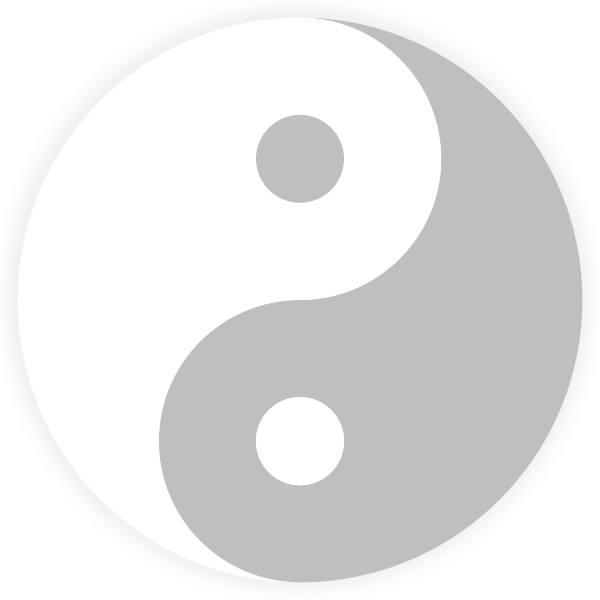
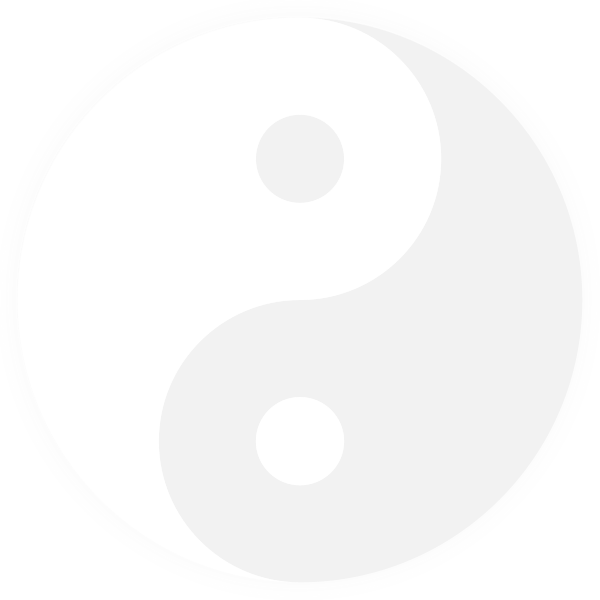
Improved CSS and made background image less intrusive.

diff --git a/pages/_css/basic.css b/pages/_css/basic.css
@@ -29,7 +29,6 @@ img {
 
 a {
 	color: #33a;
-	text-decoration: underline;
 }
 
 a:hover {
@@ -51,10 +50,6 @@ ul {
 	margin-bottom: 1em;
 }
 
-a {
-	border-bottom: 2px;
-}
-
 h3, h4, h5, h6 {
 	font-weight: normal;
 }
@@ -64,6 +59,20 @@ h3, h4, h5, h6 {
 body {
 	margin: 0px;
 	padding: 0px;
+}
+
+.navigation {
+	position: absolute;
+	left: 0px;
+	right: 0px;
+}
+
+.navigation .prev_link {
+	float: left;
+}
+
+.navigation .next_link {
+	float: right;
 }
 
 #header {
@@ -139,7 +148,8 @@ ul.trail {
 
 ul.trail > li {
 	font-weight: bold;
-	float: left;
+	display: inline;
+	position: relative;
 }
 
 ul.trail li {
